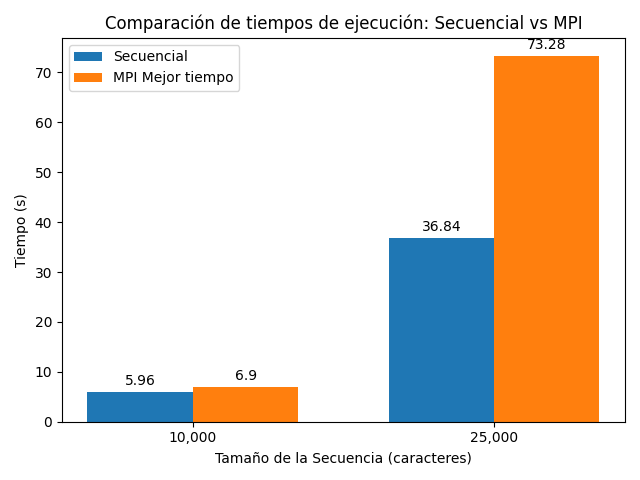
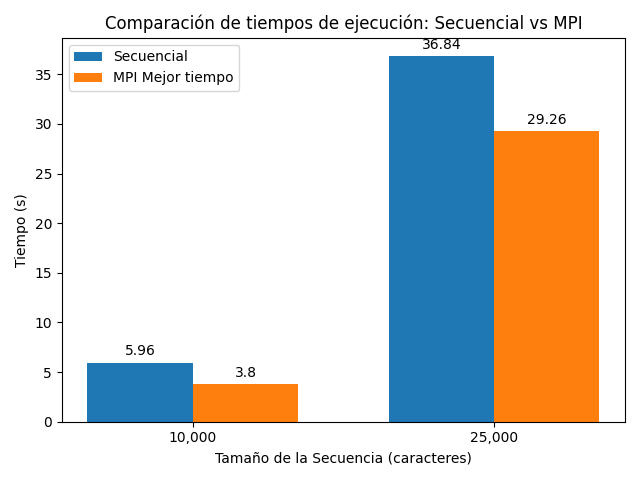
fix: mpi vs secuencial

diff --git a/assets/grafico_barras_mpi.py b/assets/grafico_barras_mpi.py
@@ -5,14 +5,14 @@ import numpy as np
 processes = [2, 4, 8, 16]
 
 # Datos para 10,000 caracteres
-times_total_10000 = [8.36, 7.55, 6.90, 7.21]
-times_calculation_10000 = [8.1, 7.3, 6.6, 7.0]
-times_image_10000 = [0.26, 0.25, 0.30, 0.21]
+times_total_10000 = [4.67, 3.80, 4.97, 10.01]
+times_calculation_10000 = [8.1, 2.04, 1.62, 1.73]
+times_image_10000 = [3.21, 1.70, 3.30, 8.22]
 
 # Datos para 25,000 caracteres
-times_total_25000 = [148.21, 90.33, 73.28, 84.66]
-times_calculation_25000 = [143.59, 90.33, 69.99, 81.53]  
-times_image_25000 = [4.53, 3.29, 3.20, 3.06]  
+times_total_25000 = [35.73, 29.26, 81.97, 84.66]
+times_calculation_25000 = [30.32, 16.48, 11.01, 81.53]  
+times_image_25000 = [5.35, 12.72, 70.9, 3.06]  
 
 x = np.arange(len(processes))  # las etiquetas de los ejes x para los procesos
 width = 0.3  # ancho de las barras
@@ -48,7 +48,7 @@ create_chart(times_total_25000, times_calculation_25000, times_image_25000,
 sequential_times = [5.96, 36.84]  # Adjust these if you have a specific time for 50,000 characters
 
 # Minimum MPI times extracted from your provided data
-min_mpi_times = [6.90, 73.28]  # Minimum times for 10,000 and 25,000 characters from MPI
+min_mpi_times = [3.80, 29.26]  # Minimum times for 10,000 and 25,000 characters from MPI
 
 # Labels for the plot
 sizes = ['10,000', '25,000']  # You can add '50,000' if you have that data
